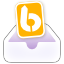
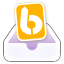
LaunchBar Repo Updates 1.1.1
- icon refinements
- added some error logging

diff --git a/LB-Repo-Updates/LBRepoUpdates.lbaction/Contents/Scripts/default.js b/LB-Repo-Updates/LBRepoUpdates.lbaction/Contents/Scripts/default.js
@@ -1,7 +1,7 @@
 /* 
 LB Repo Updates Action for LaunchBar
 by Christian Bender (@ptujec)
-2025-02-22
+2025-03-06
 
 Copyright see: https://github.com/Ptujec/LaunchBar/blob/master/LICENSE
 */
@@ -83,11 +83,11 @@ function checkForUpdates() {
   );
 
   const results = readResultsPlist();
+  LaunchBar.log('results: ', JSON.stringify(results));
+  LaunchBar.log('repos: ', JSON.stringify(repos));
 
-  if (!results || results.error) {
-    LaunchBar.alert('Error', results.error || 'Failed to parse results');
-    return;
-  }
+  if (!results) return LaunchBar.alert('Error', 'Failed to parse results');
+  if (results.error) return LaunchBar.alert('Error', results.error);
 
   processResults(repos, results, repoCount);
 }

diff --git a/LB-Repo-Updates/LBRepoUpdates.lbaction/Contents/Scripts/global.js b/LB-Repo-Updates/LBRepoUpdates.lbaction/Contents/Scripts/global.js
@@ -1,7 +1,7 @@
 /* 
 LB Repo Updates Action for LaunchBar
 by Christian Bender (@ptujec)
-2025-02-22
+2025-03-06
 
 Copyright see: https://github.com/Ptujec/LaunchBar/blob/master/LICENSE
 */
@@ -279,7 +279,7 @@ function validateCollectionDirs() {
 
 function readResultsPlist() {
   const plistPath = `${Action.supportPath}/RepoResults.plist`;
-  if (!File.exists(plistPath)) return null;
+  if (!File.exists(plistPath)) return;
   return File.readPlist(plistPath);
 }
 
